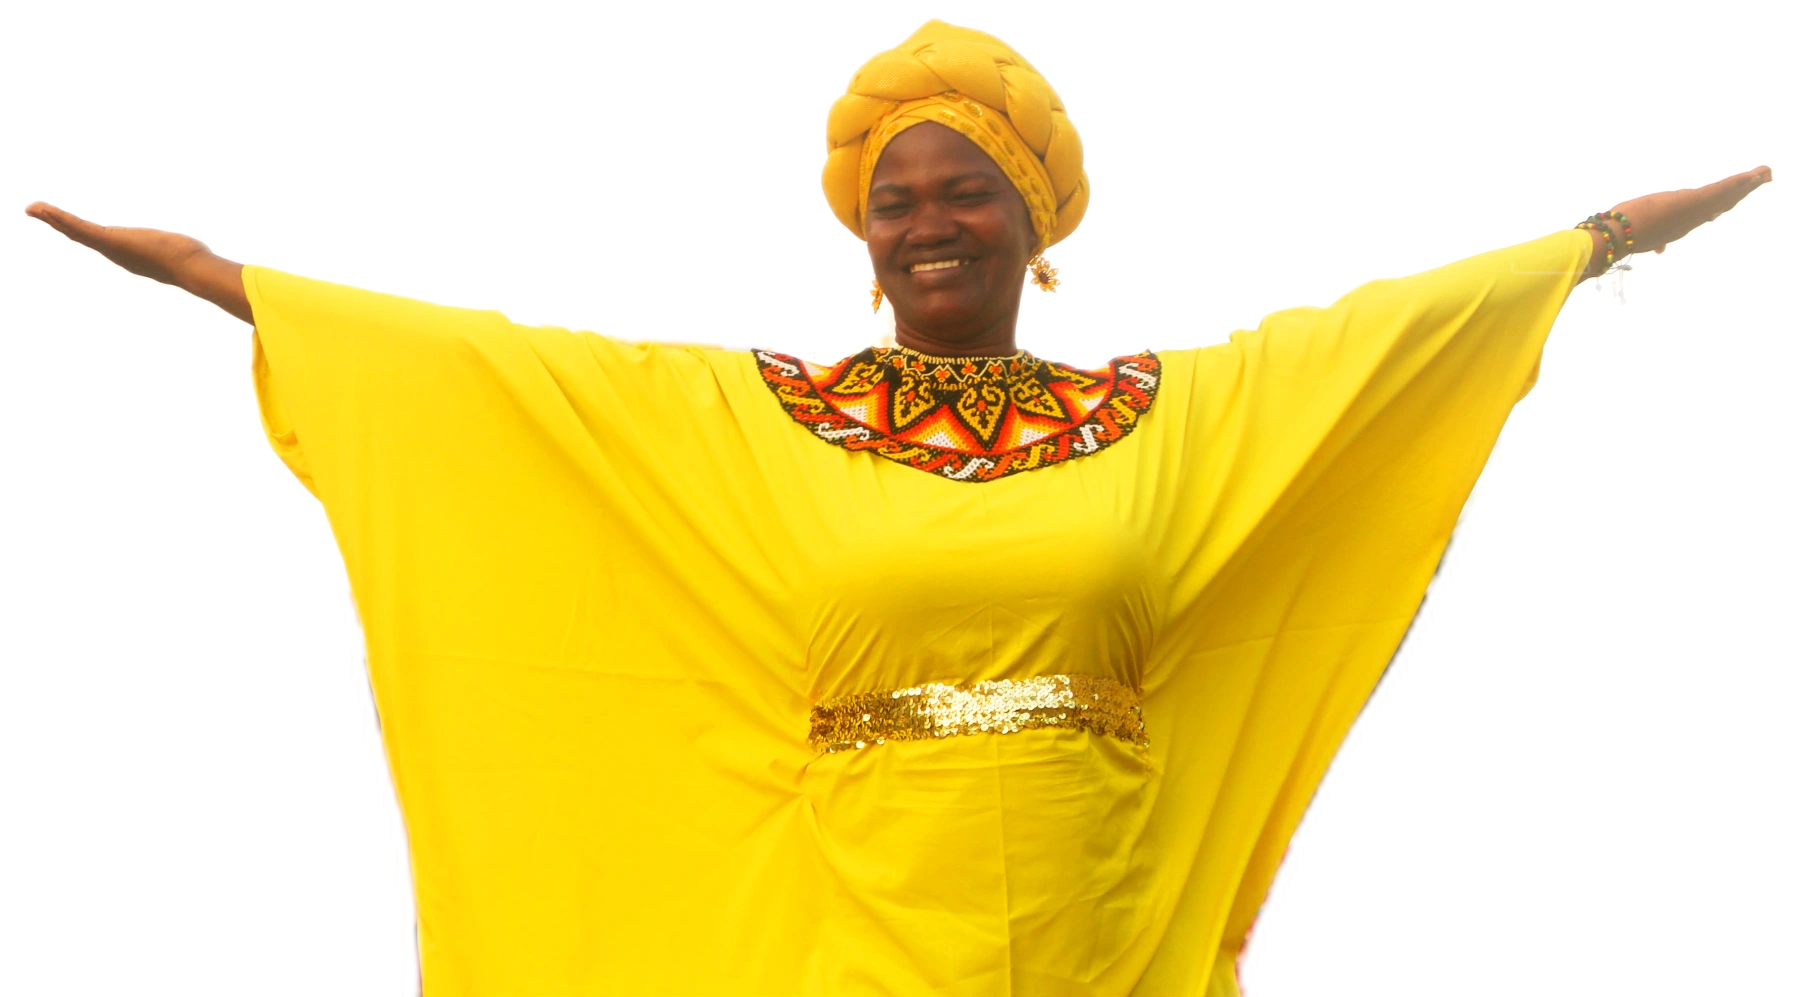
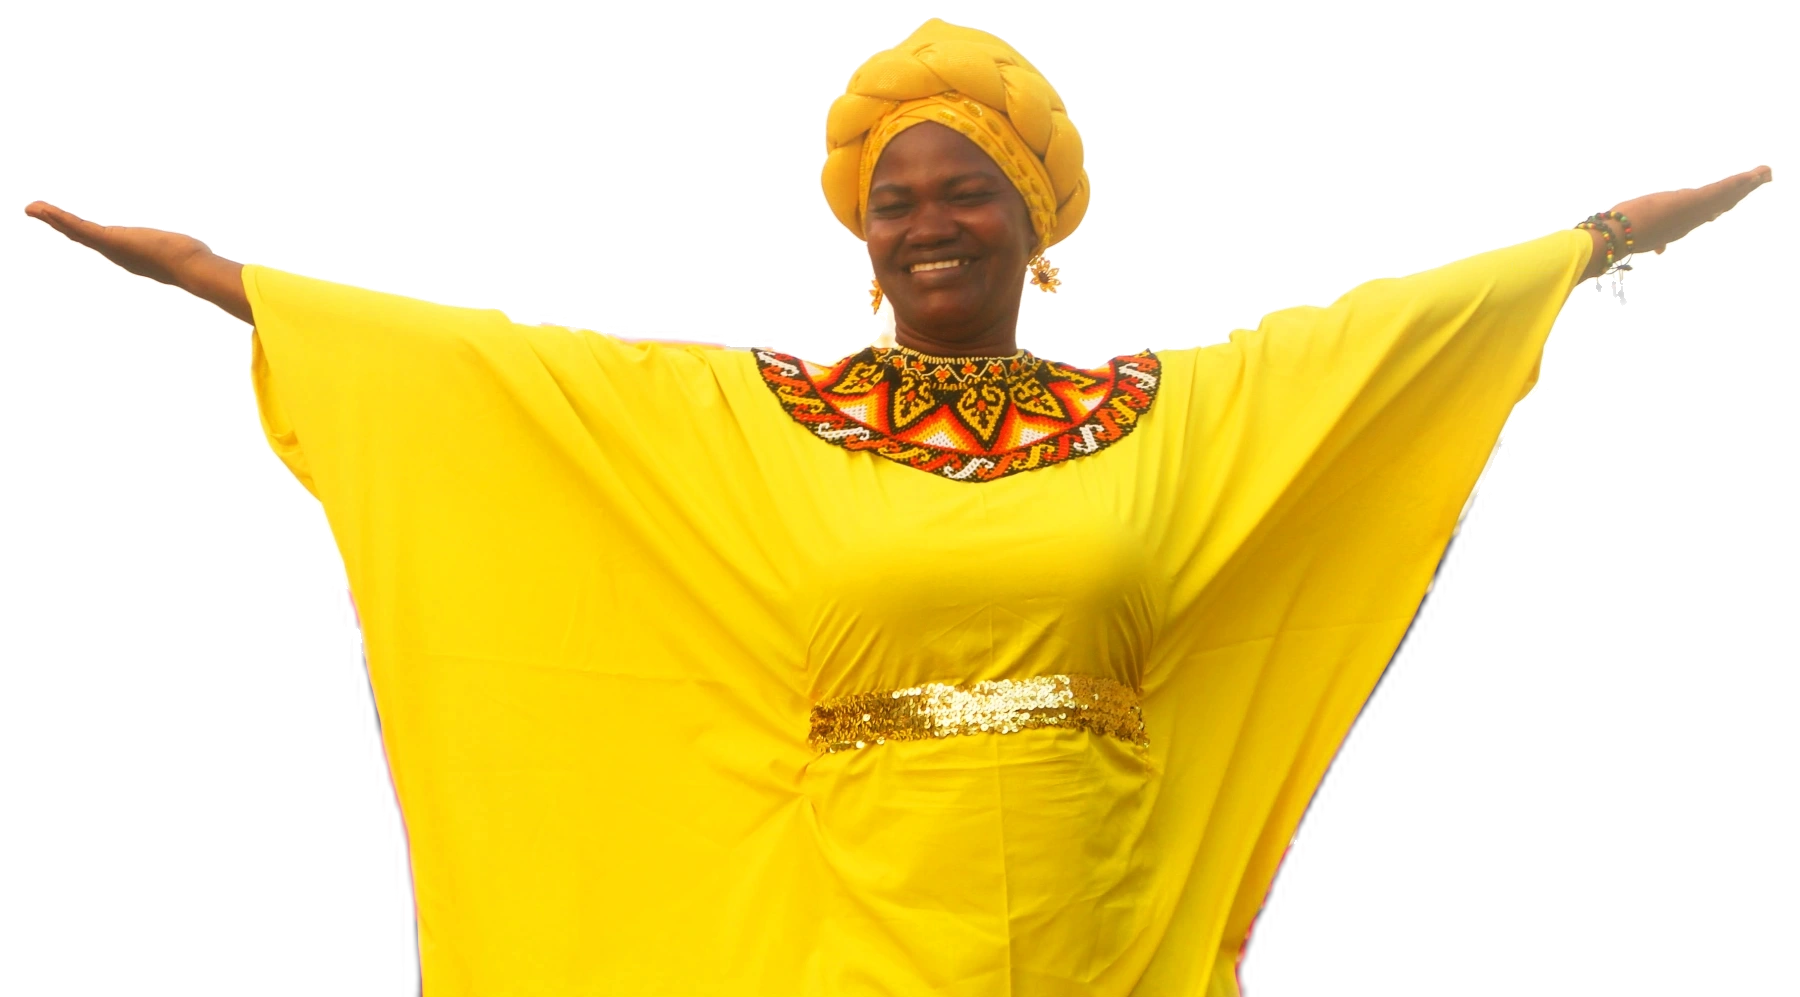
feat(landing): deepen zoom into necklace, defringe cutout halo, and eliminate white background artifacts

diff --git a/src/heros/SliderHero/Component.client.tsx b/src/heros/SliderHero/Component.client.tsx
@@ -32,40 +32,34 @@ export const SliderHeroClient: React.FC<{
   const actionsRef = useRef<HTMLDivElement>(null)
   const modelRef = useRef<HTMLDivElement>(null)
   const imgRef = useRef<HTMLImageElement>(null)
-  const glowRef = useRef<HTMLDivElement>(null)
 
   useGSAP(
     () => {
       const tl = gsap.timeline({ defaults: { ease: 'power3.out' } })
 
-      // 1. Resplandor ambiental suave de fondo
-      if (glowRef.current) {
-        tl.from(glowRef.current, { scale: 0.7, opacity: 0, duration: 1.8, ease: 'power2.out' }, 0)
-      }
-
-      // 2. Sutilmente baja la imagen al inicio
+      // 1. Sutilmente baja la imagen al inicio
       if (imgRef.current) {
         tl.fromTo(
           imgRef.current,
-          { y: -50, opacity: 0.6, scale: 1 },
-          { y: 0, opacity: 1, duration: 1.1, ease: 'power2.out' },
+          { y: -45, opacity: 0.85, scale: 1 },
+          { y: 0, opacity: 1, duration: 1.0, ease: 'power2.out' },
           0.1,
         )
 
-        // 3. Luego se hace zoom enfocado en el collar (x: 53.3%, y: 42.2%)
+        // 2. Zoom cinematográfico profundo directo al collar (x: 53.3%, y: 42.2%)
         tl.to(
           imgRef.current,
           {
-            scale: 1.18,
+            scale: 2.35,
             transformOrigin: '53.3% 42.2%',
-            duration: 1.6,
-            ease: 'power2.out',
+            duration: 1.8,
+            ease: 'power2.inOut',
           },
           '+=0.05',
         )
       }
 
-      // 4. Llega de abajo todo el texto con el botón
+      // 3. Llega de abajo todo el texto con el botón
       const textElements = [
         badgeRef.current,
         headingRef.current,
@@ -77,14 +71,14 @@ export const SliderHeroClient: React.FC<{
         tl.from(
           textElements,
           {
-            y: 85,
+            y: 90,
             opacity: 0,
-            duration: 1.15,
+            duration: 1.2,
             stagger: 0.12,
             ease: 'power3.out',
             clearProps: 'transform,opacity',
           },
-          '-=1.2', // Se solapa armoniosamente con el zoom al collar
+          '-=1.3', // Se solapa armónicamente mientras el zoom al collar se asienta
         )
       }
     },
@@ -96,15 +90,6 @@ export const SliderHeroClient: React.FC<{
       ref={containerRef}
       className="relative w-full min-h-screen min-h-[100dvh] -mt-[74px] sm:-mt-[78px] pt-[95px] sm:pt-[105px] lg:pt-[110px] pb-0 bg-[#DBC4AC] border-b border-[#C8AF95]/60 flex flex-col justify-between overflow-hidden select-none transition-colors duration-500"
     >
-      {/* Resplandores ambientales de profundidad cálidos */}
-      <div
-        ref={glowRef}
-        className="absolute top-1/2 -translate-y-1/2 right-0 md:right-4 lg:right-10 w-[580px] sm:w-[800px] lg:w-[980px] h-[580px] sm:h-[800px] lg:h-[980px] bg-[radial-gradient(ellipse_at_center,_rgba(255,255,255,0.3)_0%,_rgba(219,196,172,0)_70%)] blur-3xl pointer-events-none z-0"
-      />
-      <div
-        className="absolute top-1/6 -left-16 sm:-left-24 w-[440px] sm:w-[600px] lg:w-[740px] h-[440px] sm:h-[600px] lg:h-[740px] bg-white/20 rounded-full blur-3xl pointer-events-none"
-      />
-
       <div className="relative z-20 max-w-[1340px] mx-auto px-4 sm:px-6 lg:px-8 w-full mt-auto">
         <div className="grid grid-cols-1 lg:grid-cols-12 gap-8 lg:gap-8 items-end">
           
@@ -115,7 +100,7 @@ export const SliderHeroClient: React.FC<{
             {/* Badge superior */}
             <div
               ref={badgeRef}
-              className="inline-flex items-center gap-2.5 px-4 py-1.5 rounded-full bg-white/95 border border-[#C8AF95] shadow-xs mb-5 sm:mb-6 backdrop-blur-xs"
+              className="inline-flex items-center gap-2.5 px-4 py-1.5 rounded-full bg-[#F4ECE3] border border-[#C8AF95] shadow-xs mb-5 sm:mb-6 backdrop-blur-xs"
             >
               <span className="w-2 h-2 rounded-full bg-[#8B5A2B] animate-pulse shrink-0" />
               <span className="text-[10px] sm:text-[11px] font-sans font-semibold uppercase tracking-[0.25em] text-[#8B5A2B]">
@@ -136,15 +121,15 @@ export const SliderHeroClient: React.FC<{
 
             {/* Tabs / Sellos de Confianza */}
             <div ref={chipsRef} className="flex flex-wrap items-center gap-2 sm:gap-2.5 mb-6 sm:mb-8">
-              <div className="inline-flex items-center gap-2 px-3.5 py-1.5 rounded-xl bg-white/95 border border-[#C8AF95] text-xs font-medium text-[#1A0E2E] shadow-xs">
+              <div className="inline-flex items-center gap-2 px-3.5 py-1.5 rounded-xl bg-[#F4ECE3] border border-[#C8AF95] text-xs font-medium text-[#1A0E2E] shadow-xs">
                 <span className="text-[#8B5A2B] text-sm">✦</span>
                 <span>Piezas únicas de autor</span>
               </div>
-              <div className="inline-flex items-center gap-2 px-3.5 py-1.5 rounded-xl bg-white/95 border border-[#C8AF95] text-xs font-medium text-[#1A0E2E] shadow-xs">
+              <div className="inline-flex items-center gap-2 px-3.5 py-1.5 rounded-xl bg-[#F4ECE3] border border-[#C8AF95] text-xs font-medium text-[#1A0E2E] shadow-xs">
                 <span className="text-[#8B5A2B] text-sm">✨</span>
                 <span>Micro-mostacilla checa calibrada</span>
               </div>
-              <div className="inline-flex items-center gap-2 px-3.5 py-1.5 rounded-xl bg-white/95 border border-[#C8AF95] text-xs font-medium text-[#1A0E2E] shadow-xs">
+              <div className="inline-flex items-center gap-2 px-3.5 py-1.5 rounded-xl bg-[#F4ECE3] border border-[#C8AF95] text-xs font-medium text-[#1A0E2E] shadow-xs">
                 <span className="text-sm">📦</span>
                 <span>Envíos asegurados a Colombia</span>
               </div>
@@ -162,7 +147,7 @@ export const SliderHeroClient: React.FC<{
 
               {/* Redes Sociales */}
               <div
-                className="inline-flex items-center gap-3 text-neutral-700 bg-white/95 backdrop-blur-md px-3.5 sm:px-4 py-2 sm:py-2 rounded-full border border-[#C8AF95] shadow-xs"
+                className="inline-flex items-center gap-3 text-neutral-700 bg-[#F4ECE3] backdrop-blur-md px-3.5 sm:px-4 py-2 sm:py-2 rounded-full border border-[#C8AF95] shadow-xs"
                 role="navigation"
                 aria-label="Redes sociales de Nénufar"
               >
